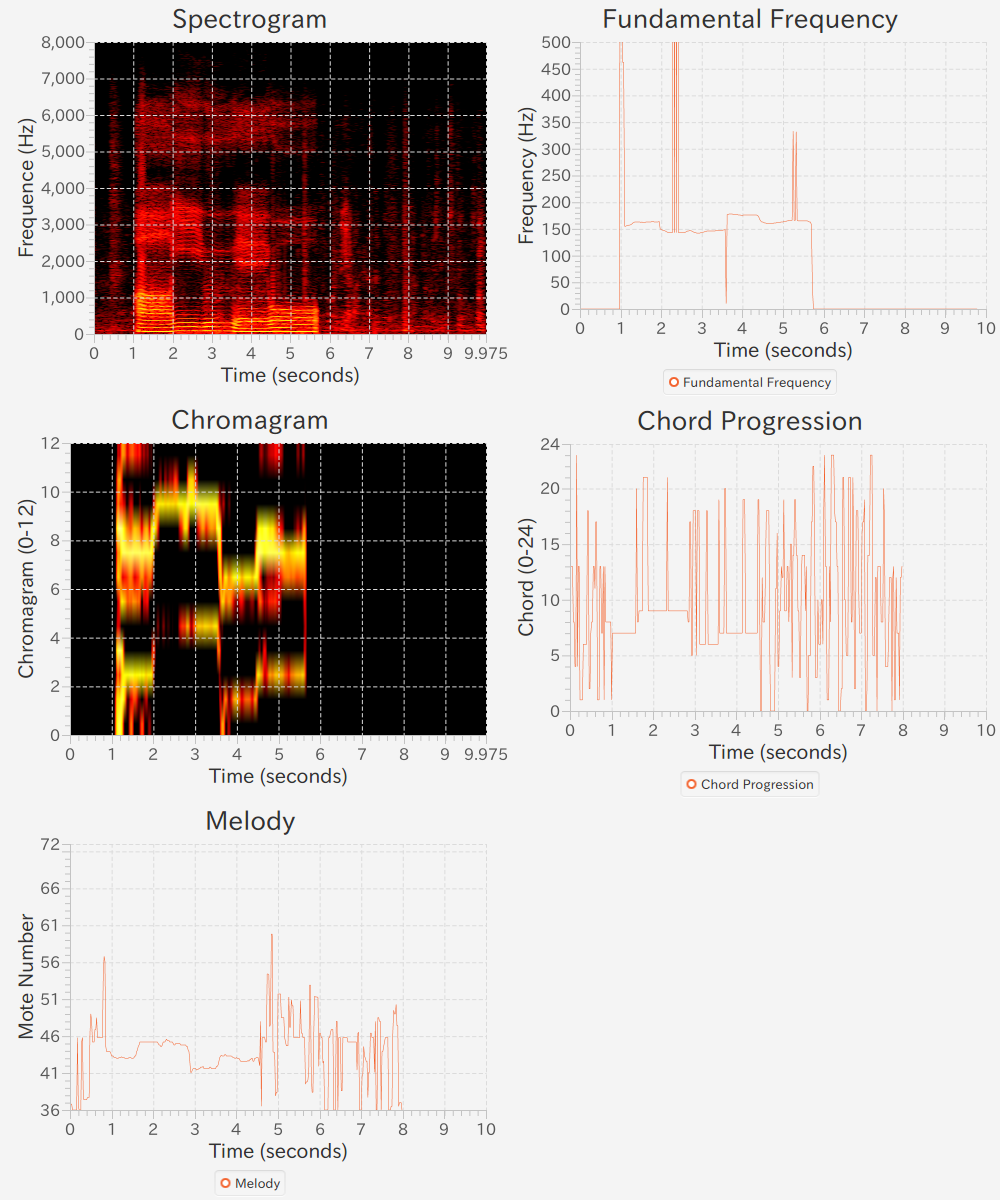
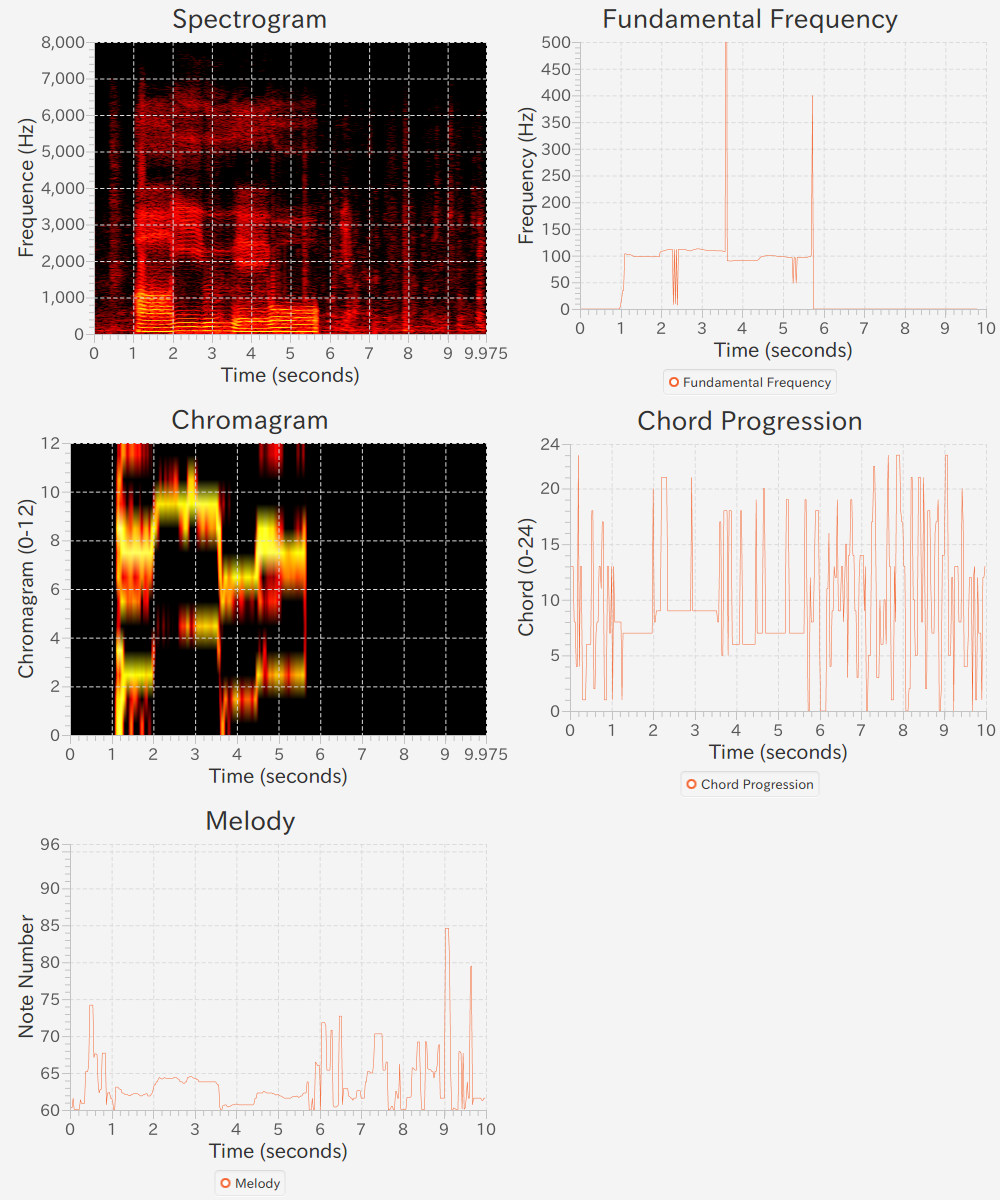
revised data

diff --git a/Task1_VisualizeWav.java b/Task1_VisualizeWav.java
@@ -357,7 +357,7 @@ public final class Task1_VisualizeWav extends Application {
         // データ系列を作成 
         final ObservableList<XYChart.Data<Number, Number>> data =
                 IntStream.range(0, like_graph.length)
-                    .mapToObj(i -> new XYChart.Data<Number, Number>(i * sampleRate / waveform.length / 5, like_graph[i]))
+                    .mapToObj(i -> new XYChart.Data<Number, Number>(i / sampleRate * 400, like_graph[i]))
                     .collect(Collectors.toCollection(FXCollections::observableArrayList));
         
         // データ系列に名前をつける 
@@ -468,19 +468,14 @@ public final class Task1_VisualizeWav extends Application {
         
         // 基本周波数の候補集合
         // 候補集合は3オクターブの範囲で設定
-        double[] ffCandSet = new double[360];
-        for(int i = 0; i < ffCandSet.length; i++){
-            ffCandSet[i] = 60 + i * 0.1;
-        }
-        
         // fundFreq[i][j] : フレーム i の音階 j らしさ
         // ノートナンバー : N ? N + 32 とし、 0.1 刻みで候補とする
         // ノートナンバー = N + j * 0.1
         // j = 10 * (ノートナンバー - N)
         int N = 60;     // 候補集合の最低音のノートナンバー
-        double[][] fundFreq = new double[specLog.length][ffCandSet.length];
+        double[][] fundFreq = new double[specLog.length][360];
         for(int i = 0; i < fundFreq.length; i++){
-            for(int j = 0; j < ffCandSet.length; j++){
+            for(int j = 0; j < 360; j++){
                 fundFreq[i][j] = melo_SHS(specLog[i], N + j * 0.1, nyquist, fftSize2);
             }
         }
@@ -494,7 +489,7 @@ public final class Task1_VisualizeWav extends Application {
         // データ系列を作成 
         final ObservableList<XYChart.Data<Number, Number>> data =
                 IntStream.range(0, meloLike.length)
-                    .mapToObj(i -> new XYChart.Data<Number, Number>(i * sampleRate / waveform.length / 5, meloLike[i]))
+                    .mapToObj(i -> new XYChart.Data<Number, Number>(i / sampleRate * 400, meloLike[i]))
                     .collect(Collectors.toCollection(FXCollections::observableArrayList));
         
         // データ系列に名前をつける 
@@ -507,7 +502,7 @@ public final class Task1_VisualizeWav extends Application {
         xAxis.setAnimated(false);
         
         /* y軸を作成 */
-        final NumberAxis yAxis = new NumberAxis("Mote Number", N, N + 36,
+        final NumberAxis yAxis = new NumberAxis("Note Number", N, N + 36,
                                                 Le4MusicUtils.autoTickUnit(36));
         yAxis.setAnimated(false);
         
